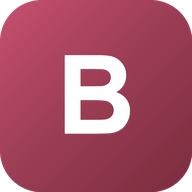
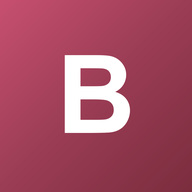
Updates

diff --git a/index.html b/index.html
@@ -31,7 +31,10 @@
     <meta name="apple-mobile-web-app-capable" content="yes">
     <meta name="apple-mobile-web-app-status-bar-style" content="black-translucent">
     <meta name="apple-mobile-web-app-title" content="BURO.">
-    <link rel="apple-touch-icon" href="/buro-app/pwa-icon-192.png">
+    <link rel="apple-touch-icon" href="/buro-app/apple-touch-icon.png">
+    <link rel="apple-touch-icon" sizes="180x180" href="/buro-app/apple-touch-icon.png">
+    <link rel="icon" type="image/png" sizes="192x192" href="/buro-app/pwa-icon-192.png">
+    <link rel="icon" type="image/png" sizes="512x512" href="/buro-app/pwa-icon-512.png">
   </head>
 
   <body>
